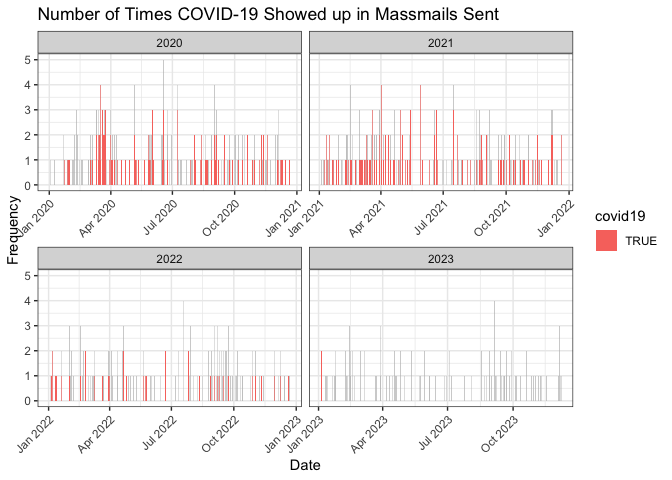
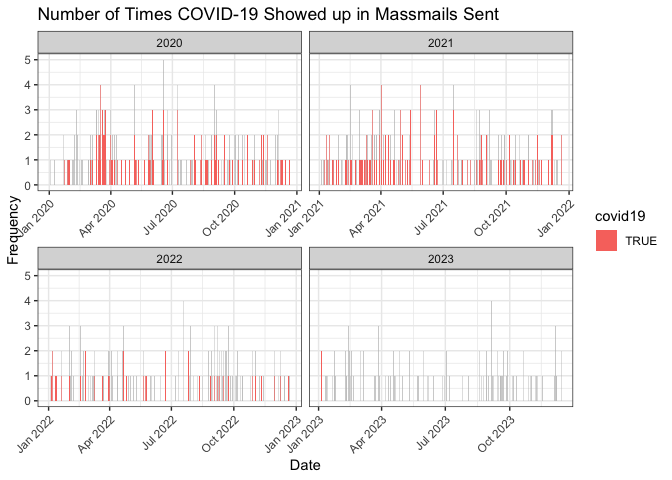
Re-build README.Rmd and Graphs

Changed region(s): [[0.5, 0.7188, 0.8438, 0.9375]]

diff --git a/README.md b/README.md
@@ -17,7 +17,7 @@ The archive may be viewed here:
 
 <https://massmail.illinois.edu/massmailArchive>
 
-Data has **794** observations and **7** variables:
+Data has **796** observations and **7** variables:
 
 - `datetime`: Date and time when the email was sent in the form of
   `YYYY-MM-DD HMS` with either CDT or CST.
@@ -210,16 +210,16 @@ head(most_popular_words, 10) %>%
 
 | word       | freq |
 |:-----------|-----:|
-| university | 2041 |
-| students   | 1745 |
-| campus     | 1550 |
-| illinois   | 1376 |
+| university | 2043 |
+| students   | 1747 |
+| campus     | 1559 |
+| illinois   | 1377 |
 | covid      | 1070 |
-| faculty    | 1018 |
+| faculty    | 1020 |
 | health     |  965 |
-| community  |  960 |
+| community  |  963 |
 | student    |  938 |
-| staff      |  864 |
+| staff      |  866 |
 
 #### Wordcloud
 
